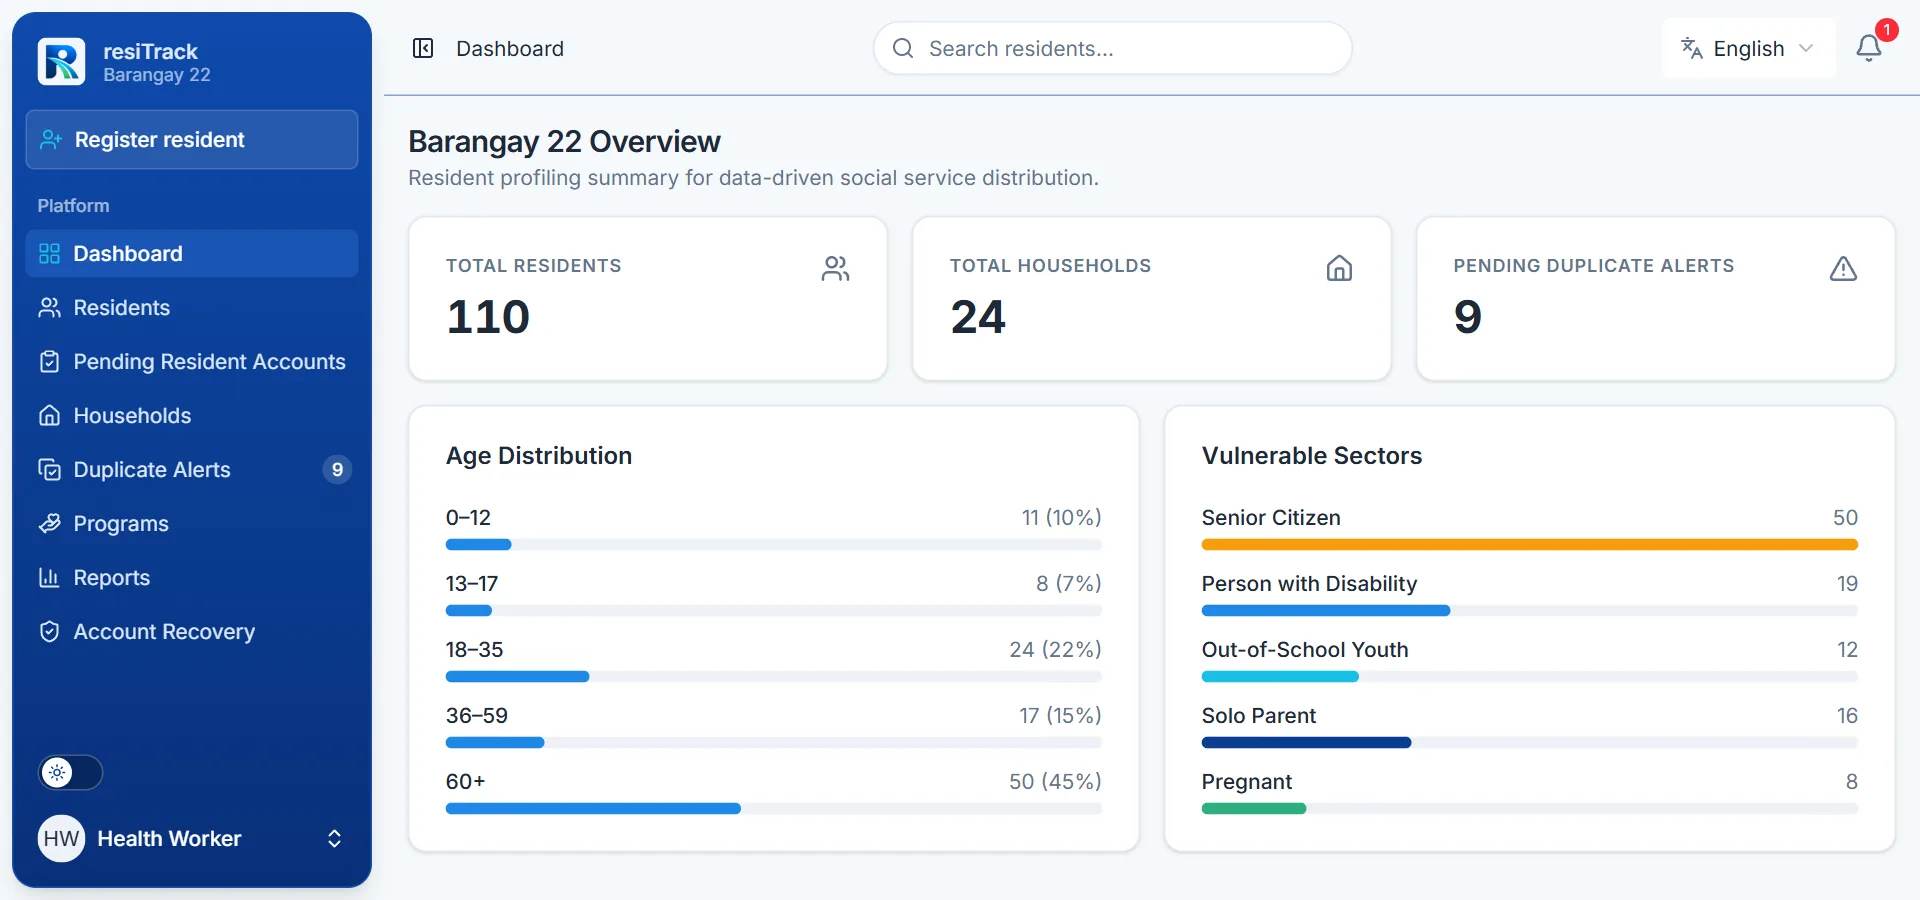
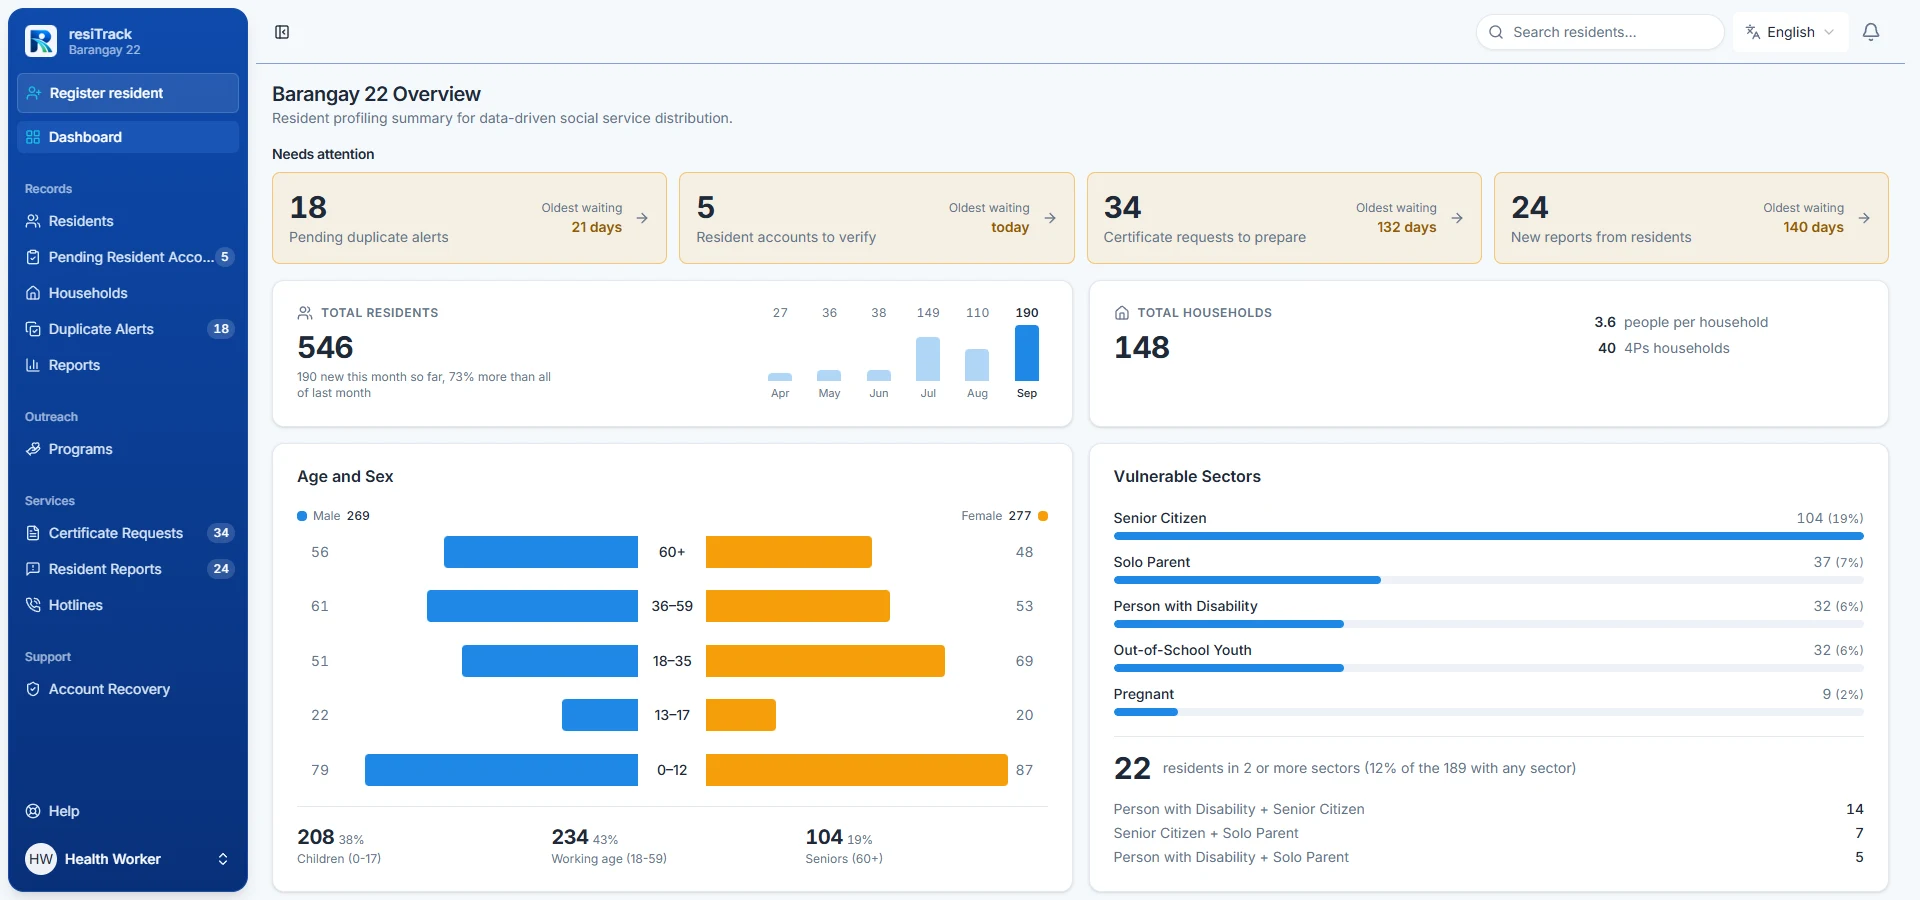
Refresh the landing page and sign-in look, with the Cagayan de Oro skyline
The hero gets sentence-case headline, larger and freshly captured screenshots,
pill buttons and the city photo fading up behind the numbers. The footer columns
reveal one after another. The sign-in and sign-up panel now carries the same
skyline in the brand blue, and stays put while the form scrolls.

The photo ships as two small WebP sizes instead of the 2.7 MB original.

diff --git a/resources/js/pages/welcome.tsx b/resources/js/pages/welcome.tsx
@@ -175,7 +175,7 @@ function MobileMenu({ isGuest }: { isGuest: boolean }) {
                         ),
                     )}
                     {isGuest && (
-                        <Button asChild variant="outline" size="lg" className="mt-3">
+                        <Button asChild variant="outline" size="lg" className="mt-3 rounded-full px-6">
                             <Link href={register()}>Register as resident</Link>
                         </Button>
                     )}
@@ -188,7 +188,7 @@ function MobileMenu({ isGuest }: { isGuest: boolean }) {
 /** Real screenshots of the app (sample data only), framed as a browser and a phone. */
 function DeviceMockups() {
     return (
-        <div className="relative mx-auto w-full max-w-xl pb-16 sm:pb-20">
+        <div className="relative mx-auto w-full max-w-xl pb-16 sm:pb-20 lg:max-w-2xl">
             <div className="overflow-hidden rounded-xl border border-border bg-card shadow-2xl shadow-brand-navy/20">
                 <div className="flex items-center gap-1.5 border-b border-border bg-muted px-3 py-2" aria-hidden="true">
                     <span className="size-2.5 rounded-full bg-border" />
@@ -240,9 +240,25 @@ export default function Welcome({ stats }: { stats: Stats }) {
     return (
         <>
             <Head title="Welcome" />
-            <div className="min-h-screen bg-background bg-page-gradient text-foreground">
+            <div className="relative min-h-screen bg-background bg-page-gradient text-foreground">
                 <IntroSplash />
-                <header className="mx-auto flex w-full max-w-6xl items-center justify-between gap-3 p-4 sm:p-6">
+                {/* The city behind the page: it rises out of the hero and fades away on all sides, so the text never sits on it. */}
+                <div
+                    aria-hidden="true"
+                    className="pointer-events-none absolute inset-x-0 top-[44rem] h-[28rem] overflow-hidden opacity-60 [mask-image:linear-gradient(to_bottom,transparent,black_35%,black_70%,transparent)] lg:top-[37rem] dark:opacity-25"
+                >
+                    <img
+                        src="/images/landing/cdo.webp"
+                        srcSet="/images/landing/cdo-960.webp 960w, /images/landing/cdo.webp 1672w"
+                        sizes="100vw"
+                        width={1672}
+                        height={941}
+                        alt=""
+                        decoding="async"
+                        className="size-full object-cover object-bottom"
+                    />
+                </div>
+                <header className="relative z-10 mx-auto flex w-full max-w-6xl items-center justify-between gap-3 p-4 sm:p-6">
                     <Link href="/" id="site-logo" className="flex shrink-0 items-center gap-2">
                         <AppLogoIcon className="size-9" />
                         <span className="text-lg font-semibold tracking-tight">resiTrack</span>
@@ -267,7 +283,7 @@ export default function Welcome({ stats }: { stats: Stats }) {
                     <div className="flex items-center gap-2 md:hidden">
                         <ThemeToggle />
                         {!auth.user && (
-                            <Button asChild size="sm">
+                            <Button asChild size="sm" className="rounded-full px-4">
                                 <Link href={login()}>Log in</Link>
                             </Button>
                         )}
@@ -275,10 +291,10 @@ export default function Welcome({ stats }: { stats: Stats }) {
                     </div>
                 </header>
 
-                <main className="mx-auto w-full max-w-6xl px-4 sm:px-6">
-                    <section className="grid items-center gap-12 py-10 lg:grid-cols-[1.05fr_1fr] lg:gap-8 lg:py-20">
+                <main className="relative z-10 mx-auto w-full max-w-6xl px-4 sm:px-6">
+                    <section className="grid items-center gap-12 py-10 lg:grid-cols-[0.9fr_1.1fr] lg:gap-6 lg:py-20">
                         <div>
-                            <h1 className="text-4xl font-bold uppercase leading-[1.08] tracking-tight sm:text-5xl lg:text-6xl">
+                            <h1 className="text-4xl font-bold leading-[1.1] tracking-tight sm:text-5xl lg:text-6xl">
                                 {['Track', 'today.'].map((word, i) => (
                                     <span key={word} className="intro-gate intro-word" style={{ '--intro-delay': `${150 + i * 90}ms` } as React.CSSProperties}>
                                         {word}
@@ -309,7 +325,7 @@ export default function Welcome({ stats }: { stats: Stats }) {
                                 <Button
                                     asChild
                                     size="lg"
-                                    className="group transition-all duration-200 hover:-translate-y-0.5 hover:shadow-lg hover:shadow-primary/30 active:translate-y-0 motion-reduce:transition-none motion-reduce:hover:translate-y-0"
+                                    className="group rounded-full px-7 transition-all duration-200 hover:-translate-y-0.5 hover:shadow-lg hover:shadow-primary/30 active:translate-y-0 motion-reduce:transition-none motion-reduce:hover:translate-y-0"
                                 >
                                     <Link href={auth.user ? '/programs' : login()}>
                                         {auth.user ? 'View Programs' : 'Access System'}
@@ -321,7 +337,7 @@ export default function Welcome({ stats }: { stats: Stats }) {
                                         asChild
                                         size="lg"
                                         variant="outline"
-                                        className="transition-all duration-200 hover:-translate-y-0.5 hover:border-primary hover:text-primary hover:shadow-lg hover:shadow-brand-navy/10 active:translate-y-0 motion-reduce:transition-none motion-reduce:hover:translate-y-0"
+                                        className="rounded-full px-7 transition-all duration-200 hover:-translate-y-0.5 hover:border-primary hover:text-primary hover:shadow-lg hover:shadow-brand-navy/10 active:translate-y-0 motion-reduce:transition-none motion-reduce:hover:translate-y-0"
                                     >
                                         <Link href={register()}>Register as resident</Link>
                                     </Button>
@@ -338,9 +354,9 @@ export default function Welcome({ stats }: { stats: Stats }) {
                         </div>
                     </section>
 
-                    <section aria-label="resiTrack in numbers" className="pb-6">
+                    <section aria-label="resiTrack in numbers" className="pt-4 pb-6 lg:pt-10">
                         <ScrollReveal>
-                            <p className="text-xs font-semibold uppercase tracking-[0.2em] text-muted-foreground">
+                            <p className="inline-block rounded-full bg-card/80 px-3 py-1 text-xs font-semibold uppercase tracking-[0.2em] text-muted-foreground backdrop-blur-sm">
                                 resiTrack in numbers
                             </p>
                             <dl className="mt-4 grid grid-cols-2 gap-3 md:grid-cols-4">
@@ -482,7 +498,7 @@ export default function Welcome({ stats }: { stats: Stats }) {
                                     Contact them to request access, then log in to publish your first program.
                                 </p>
                                 {!auth.user && (
-                                    <Button asChild variant="secondary" size="lg" className="mt-6">
+                                    <Button asChild variant="secondary" size="lg" className="mt-6 rounded-full px-6">
                                         <Link href={login()}>Log in to your account</Link>
                                     </Button>
                                 )}

diff --git a/resources/js/components/site-footer.tsx b/resources/js/components/site-footer.tsx
@@ -1,5 +1,6 @@
 import { Link } from '@inertiajs/react';
 import AppLogoIcon from '@/components/app-logo-icon';
+import { ScrollReveal } from '@/components/scroll-reveal';
 
 const directory = [
     { label: 'Home', href: '/' },
@@ -20,9 +21,9 @@ const legal = [
     { label: 'Terms of Use', href: '/terms' },
 ];
 
-function Column({ title, links }: { title: string; links: { label: string; href: string }[] }) {
+function Column({ title, links, delay }: { title: string; links: { label: string; href: string }[]; delay: number }) {
     return (
-        <div>
+        <ScrollReveal delay={delay}>
             <h2 className="border-b border-white/20 pb-2 text-xs font-semibold uppercase tracking-[0.15em] text-white">
                 {title}
             </h2>
@@ -30,18 +31,18 @@ function Column({ title, links }: { title: string; links: { label: string; href:
                 {links.map((link) => (
                     <li key={link.label}>
                         {link.href.includes('#') ? (
-                            <a href={link.href} className="text-white/75 transition-colors hover:text-white">
+                            <a href={link.href} className="inline-block text-white/75 transition duration-200 hover:translate-x-1 hover:text-white motion-reduce:transition-none motion-reduce:hover:translate-x-0">
                                 {link.label}
                             </a>
                         ) : (
-                            <Link href={link.href} className="text-white/75 transition-colors hover:text-white">
+                            <Link href={link.href} className="inline-block text-white/75 transition duration-200 hover:translate-x-1 hover:text-white motion-reduce:transition-none motion-reduce:hover:translate-x-0">
                                 {link.label}
                             </Link>
                         )}
                     </li>
                 ))}
             </ul>
-        </div>
+        </ScrollReveal>
     );
 }
 
@@ -54,7 +55,7 @@ export function SiteFooter() {
     return (
         <footer className="bg-brand-navy bg-footer-gradient text-white">
             <div className="mx-auto grid w-full max-w-6xl gap-10 px-4 py-12 sm:px-6 md:grid-cols-2 lg:grid-cols-[1.4fr_1fr_1fr_1fr]">
-                <div>
+                <ScrollReveal>
                     <div className="flex items-center gap-2">
                         <AppLogoIcon className="size-9 rounded-md bg-white/95 p-1" />
                         <span className="text-lg font-semibold tracking-tight">resiTrack</span>
@@ -66,10 +67,10 @@ export function SiteFooter() {
                     <p className="mt-4 text-xs font-semibold uppercase tracking-[0.2em] text-brand-cyan">
                         Track today. Brighter tomorrows.
                     </p>
-                </div>
-                <Column title="Site directory" links={directory} />
-                <Column title="Help" links={help} />
-                <Column title="Legal" links={legal} />
+                </ScrollReveal>
+                <Column title="Site directory" links={directory} delay={100} />
+                <Column title="Help" links={help} delay={200} />
+                <Column title="Legal" links={legal} delay={300} />
             </div>
             <div className="border-t border-white/15">
                 <p className="mx-auto w-full max-w-6xl px-4 py-5 text-xs text-white/60 sm:px-6">

diff --git a/resources/js/layouts/auth/auth-simple-layout.tsx b/resources/js/layouts/auth/auth-simple-layout.tsx
@@ -52,7 +52,23 @@ export default function AuthSimpleLayout({
 }: AuthLayoutProps) {
     return (
         <div className="grid min-h-svh bg-background bg-page-gradient lg:grid-cols-[minmax(0,0.82fr)_minmax(0,1fr)]">
-            <aside className="relative hidden overflow-hidden bg-brand-navy bg-brand-gradient p-10 text-white lg:flex lg:flex-col lg:justify-between">
+            <aside className="relative hidden overflow-hidden bg-brand-navy bg-brand-gradient p-10 text-white lg:sticky lg:top-0 lg:flex lg:h-svh lg:flex-col lg:justify-between lg:self-start">
+                {/* The city in the brand blue, rising from the bottom edge under the text. */}
+                <div
+                    aria-hidden="true"
+                    className="pointer-events-none absolute inset-x-0 bottom-0 h-[62%] opacity-30 mix-blend-luminosity [mask-image:linear-gradient(to_top,black_35%,transparent)]"
+                >
+                    <img
+                        src="/images/landing/cdo.webp"
+                        srcSet="/images/landing/cdo-960.webp 960w, /images/landing/cdo.webp 1672w"
+                        sizes="34vw"
+                        width={1672}
+                        height={941}
+                        alt=""
+                        decoding="async"
+                        className="size-full object-cover object-bottom"
+                    />
+                </div>
                 <BrandPath />
                 <div className="relative">
                     <Link href={home()} className="inline-flex items-center gap-3">
@@ -83,10 +99,11 @@ export default function AuthSimpleLayout({
                         </ul>
                     </div>
                 </div>
-                <p className="relative text-xs text-white/50">Cagayan de Oro City · Community services</p>
+                <p className="relative text-xs font-medium text-white/85 [text-shadow:0_1px_8px_rgb(5_25_90/0.9)]">Cagayan de Oro City · Community services</p>
             </aside>
 
             <main className="relative flex flex-col items-center justify-center px-4 py-10 sm:px-8">
+
                 <div className="absolute top-4 right-4 sm:top-6 sm:right-8">
                     <ThemeToggle />
                 </div>
@@ -105,7 +122,7 @@ export default function AuthSimpleLayout({
                     {children}
                 </div>
 
-                <p className="mt-6 max-w-md text-center text-xs leading-5 text-muted-foreground">
+                <p className="mt-6 max-w-md rounded-lg bg-card/70 px-3 py-1.5 text-center text-xs leading-5 text-muted-foreground backdrop-blur-sm">
                     By continuing you agree to the{' '}
                     <Link href="/terms" className="underline underline-offset-4 hover:text-foreground">
                         Terms of Use
